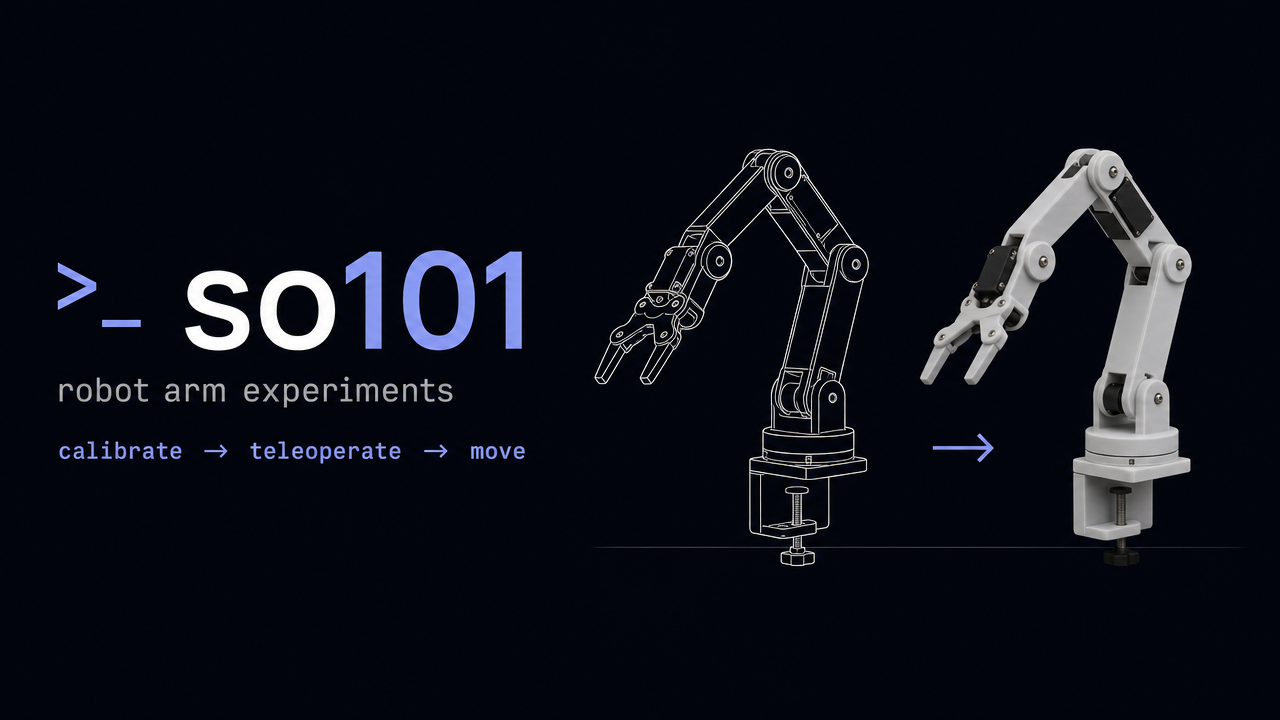
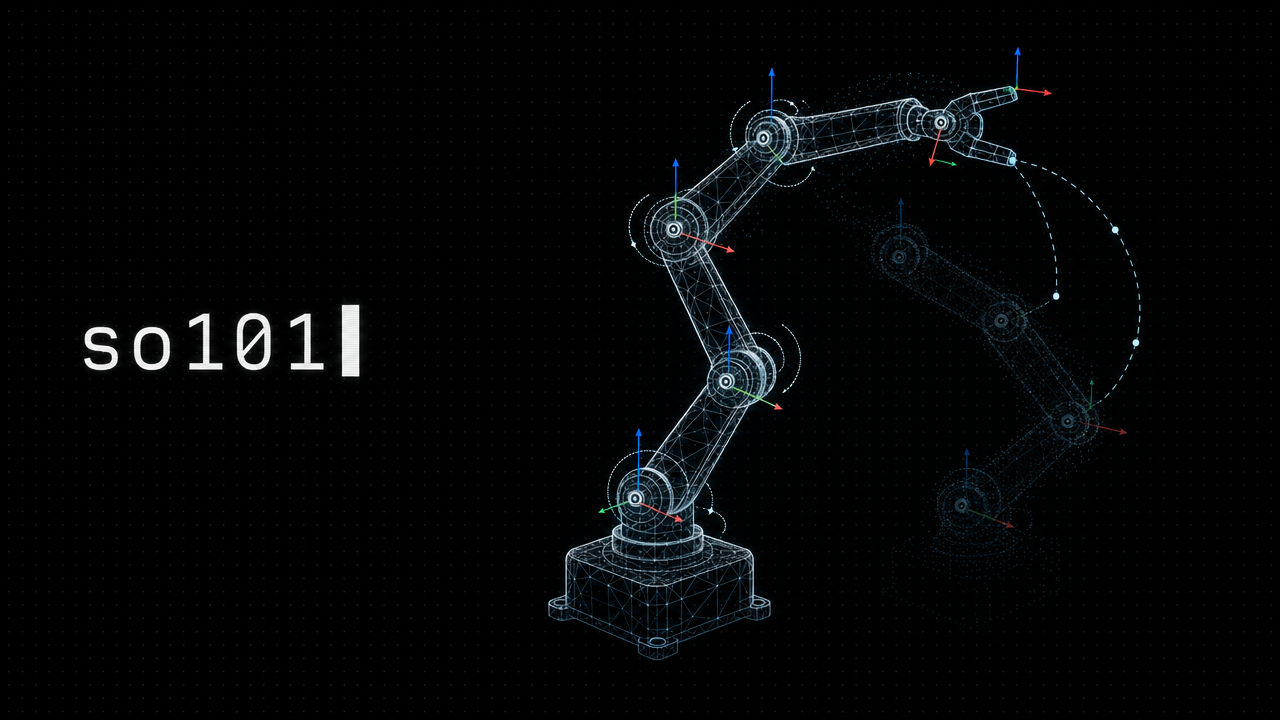
README: new hero image

diff --git a/README.md b/README.md
@@ -1,6 +1,6 @@
 # so101
 
-![so101 — robot arm experiments](docs/assets/hero.png)
+![so101 — a wireframe robot arm with joint axes and a traced gripper path](docs/assets/hero.png)
 
 **A running collection of my experiments with an SO-101 leader and follower
 arm.** Each one is a small, self-contained step on the pair, run from a Mac
